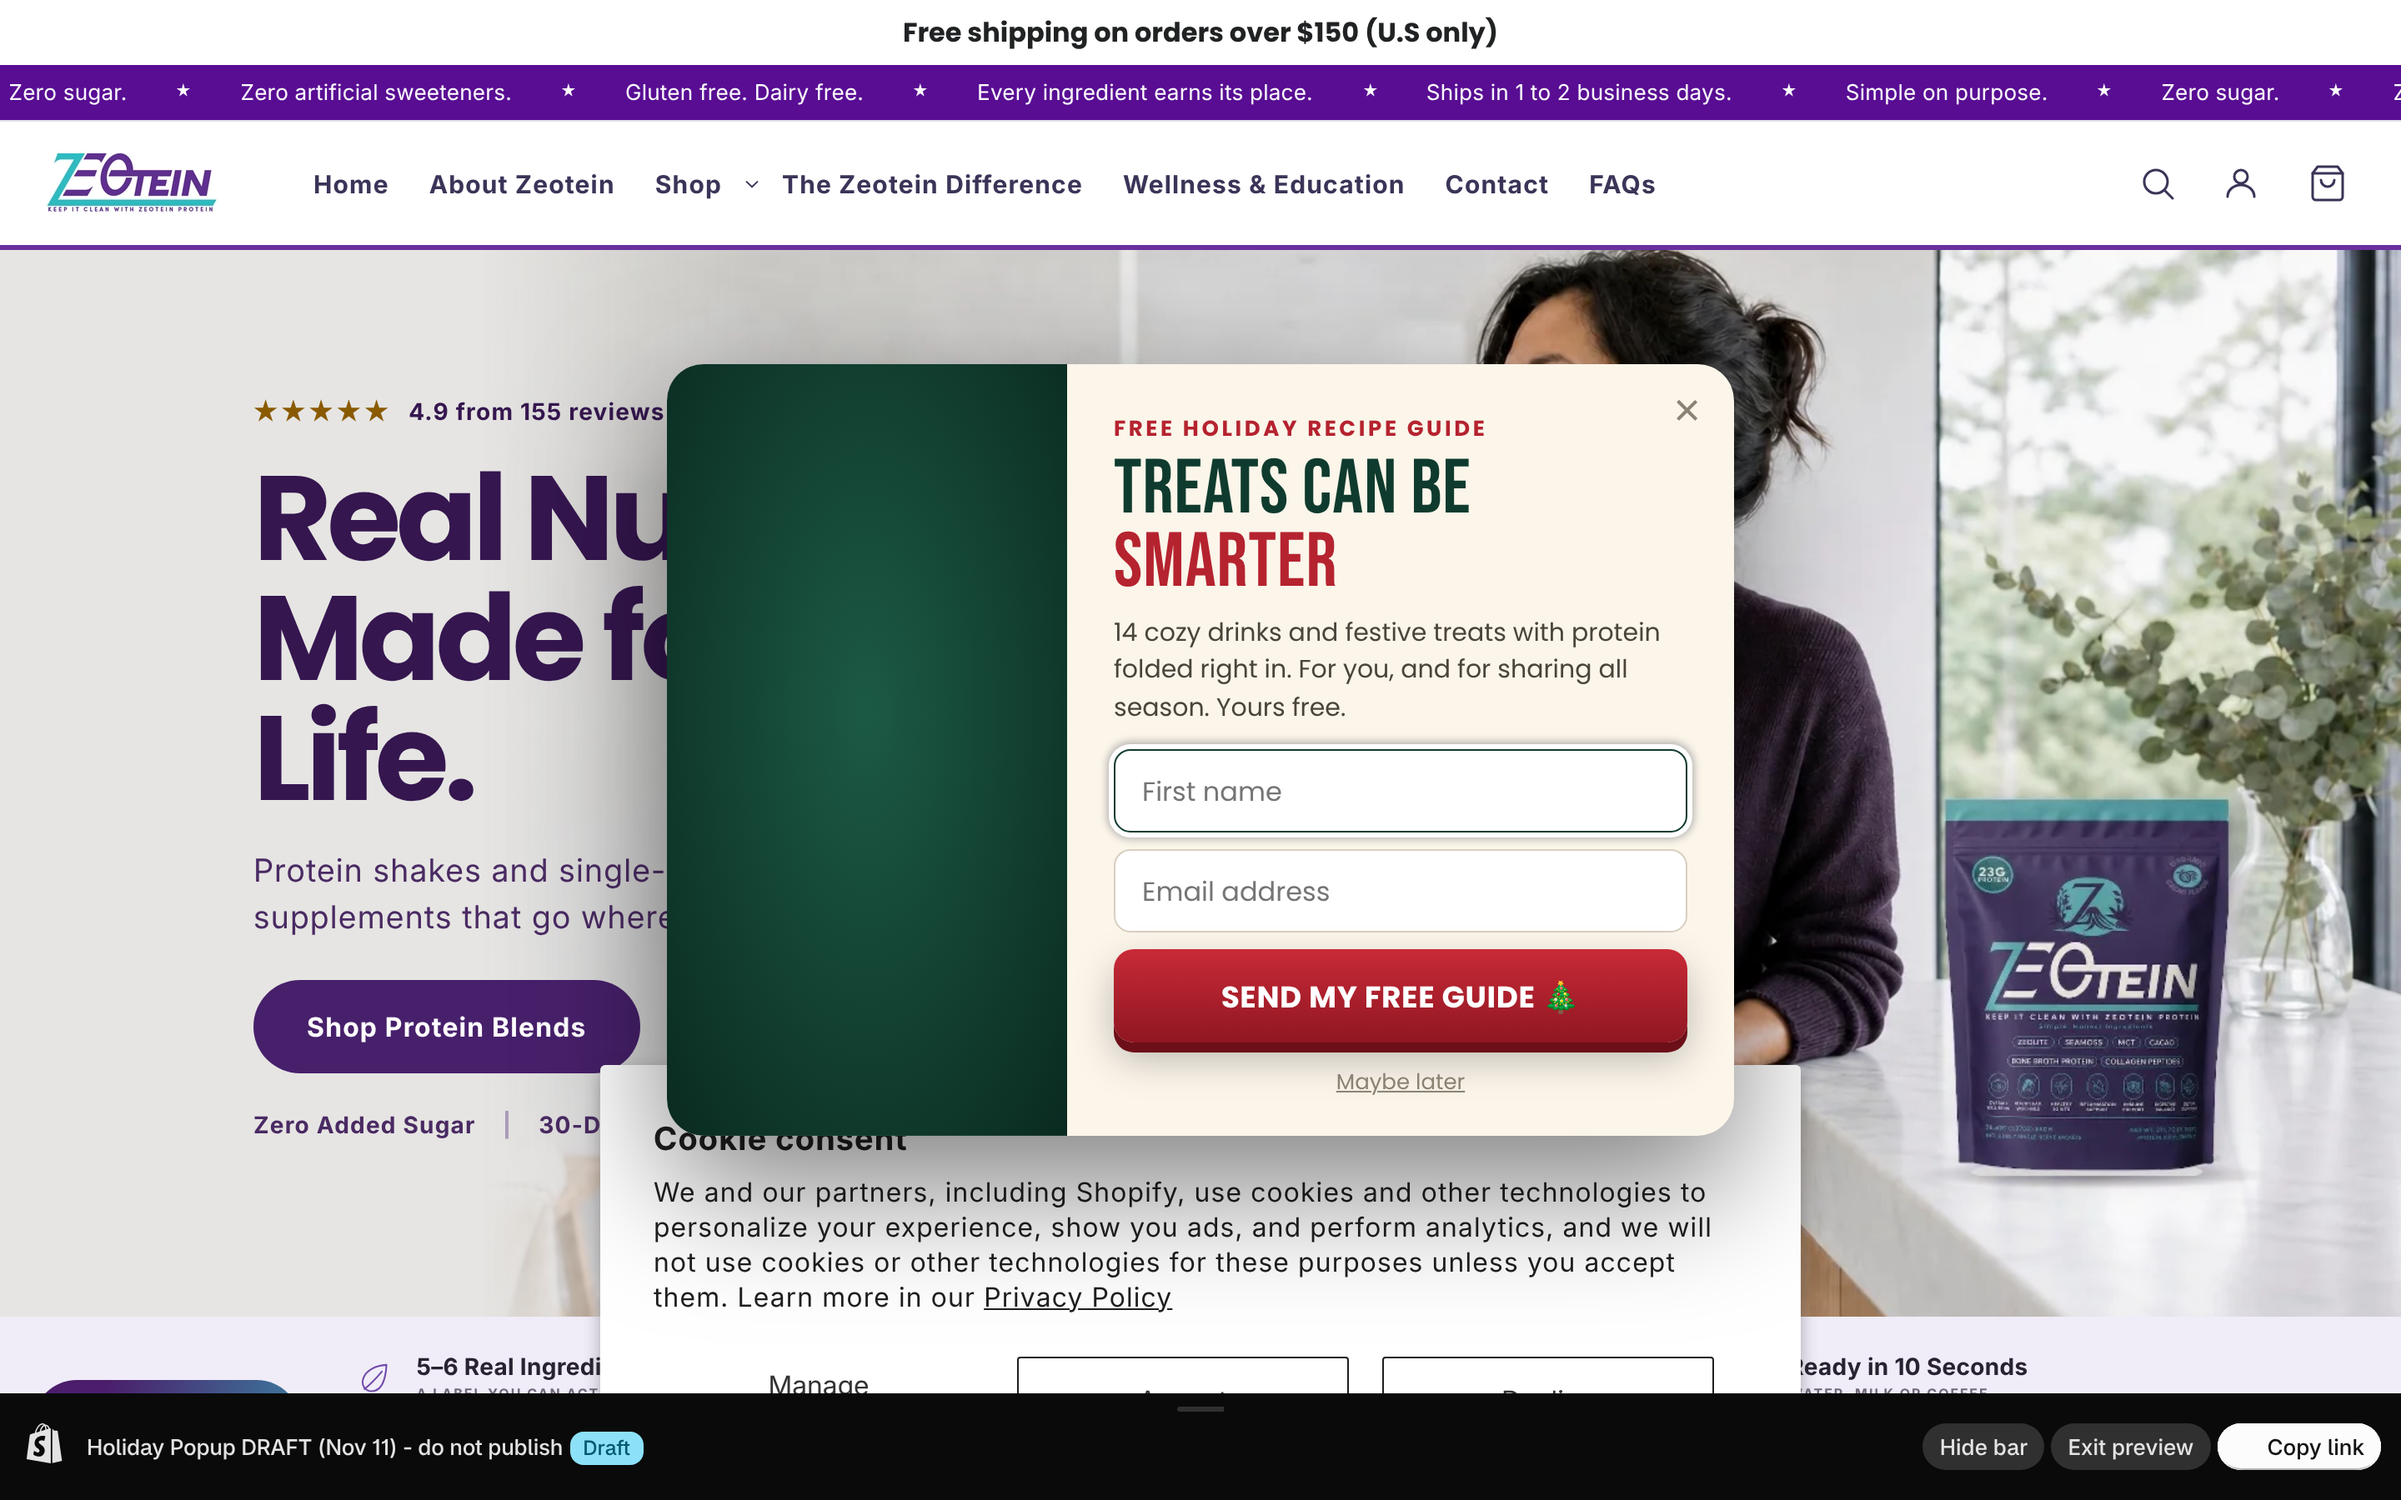
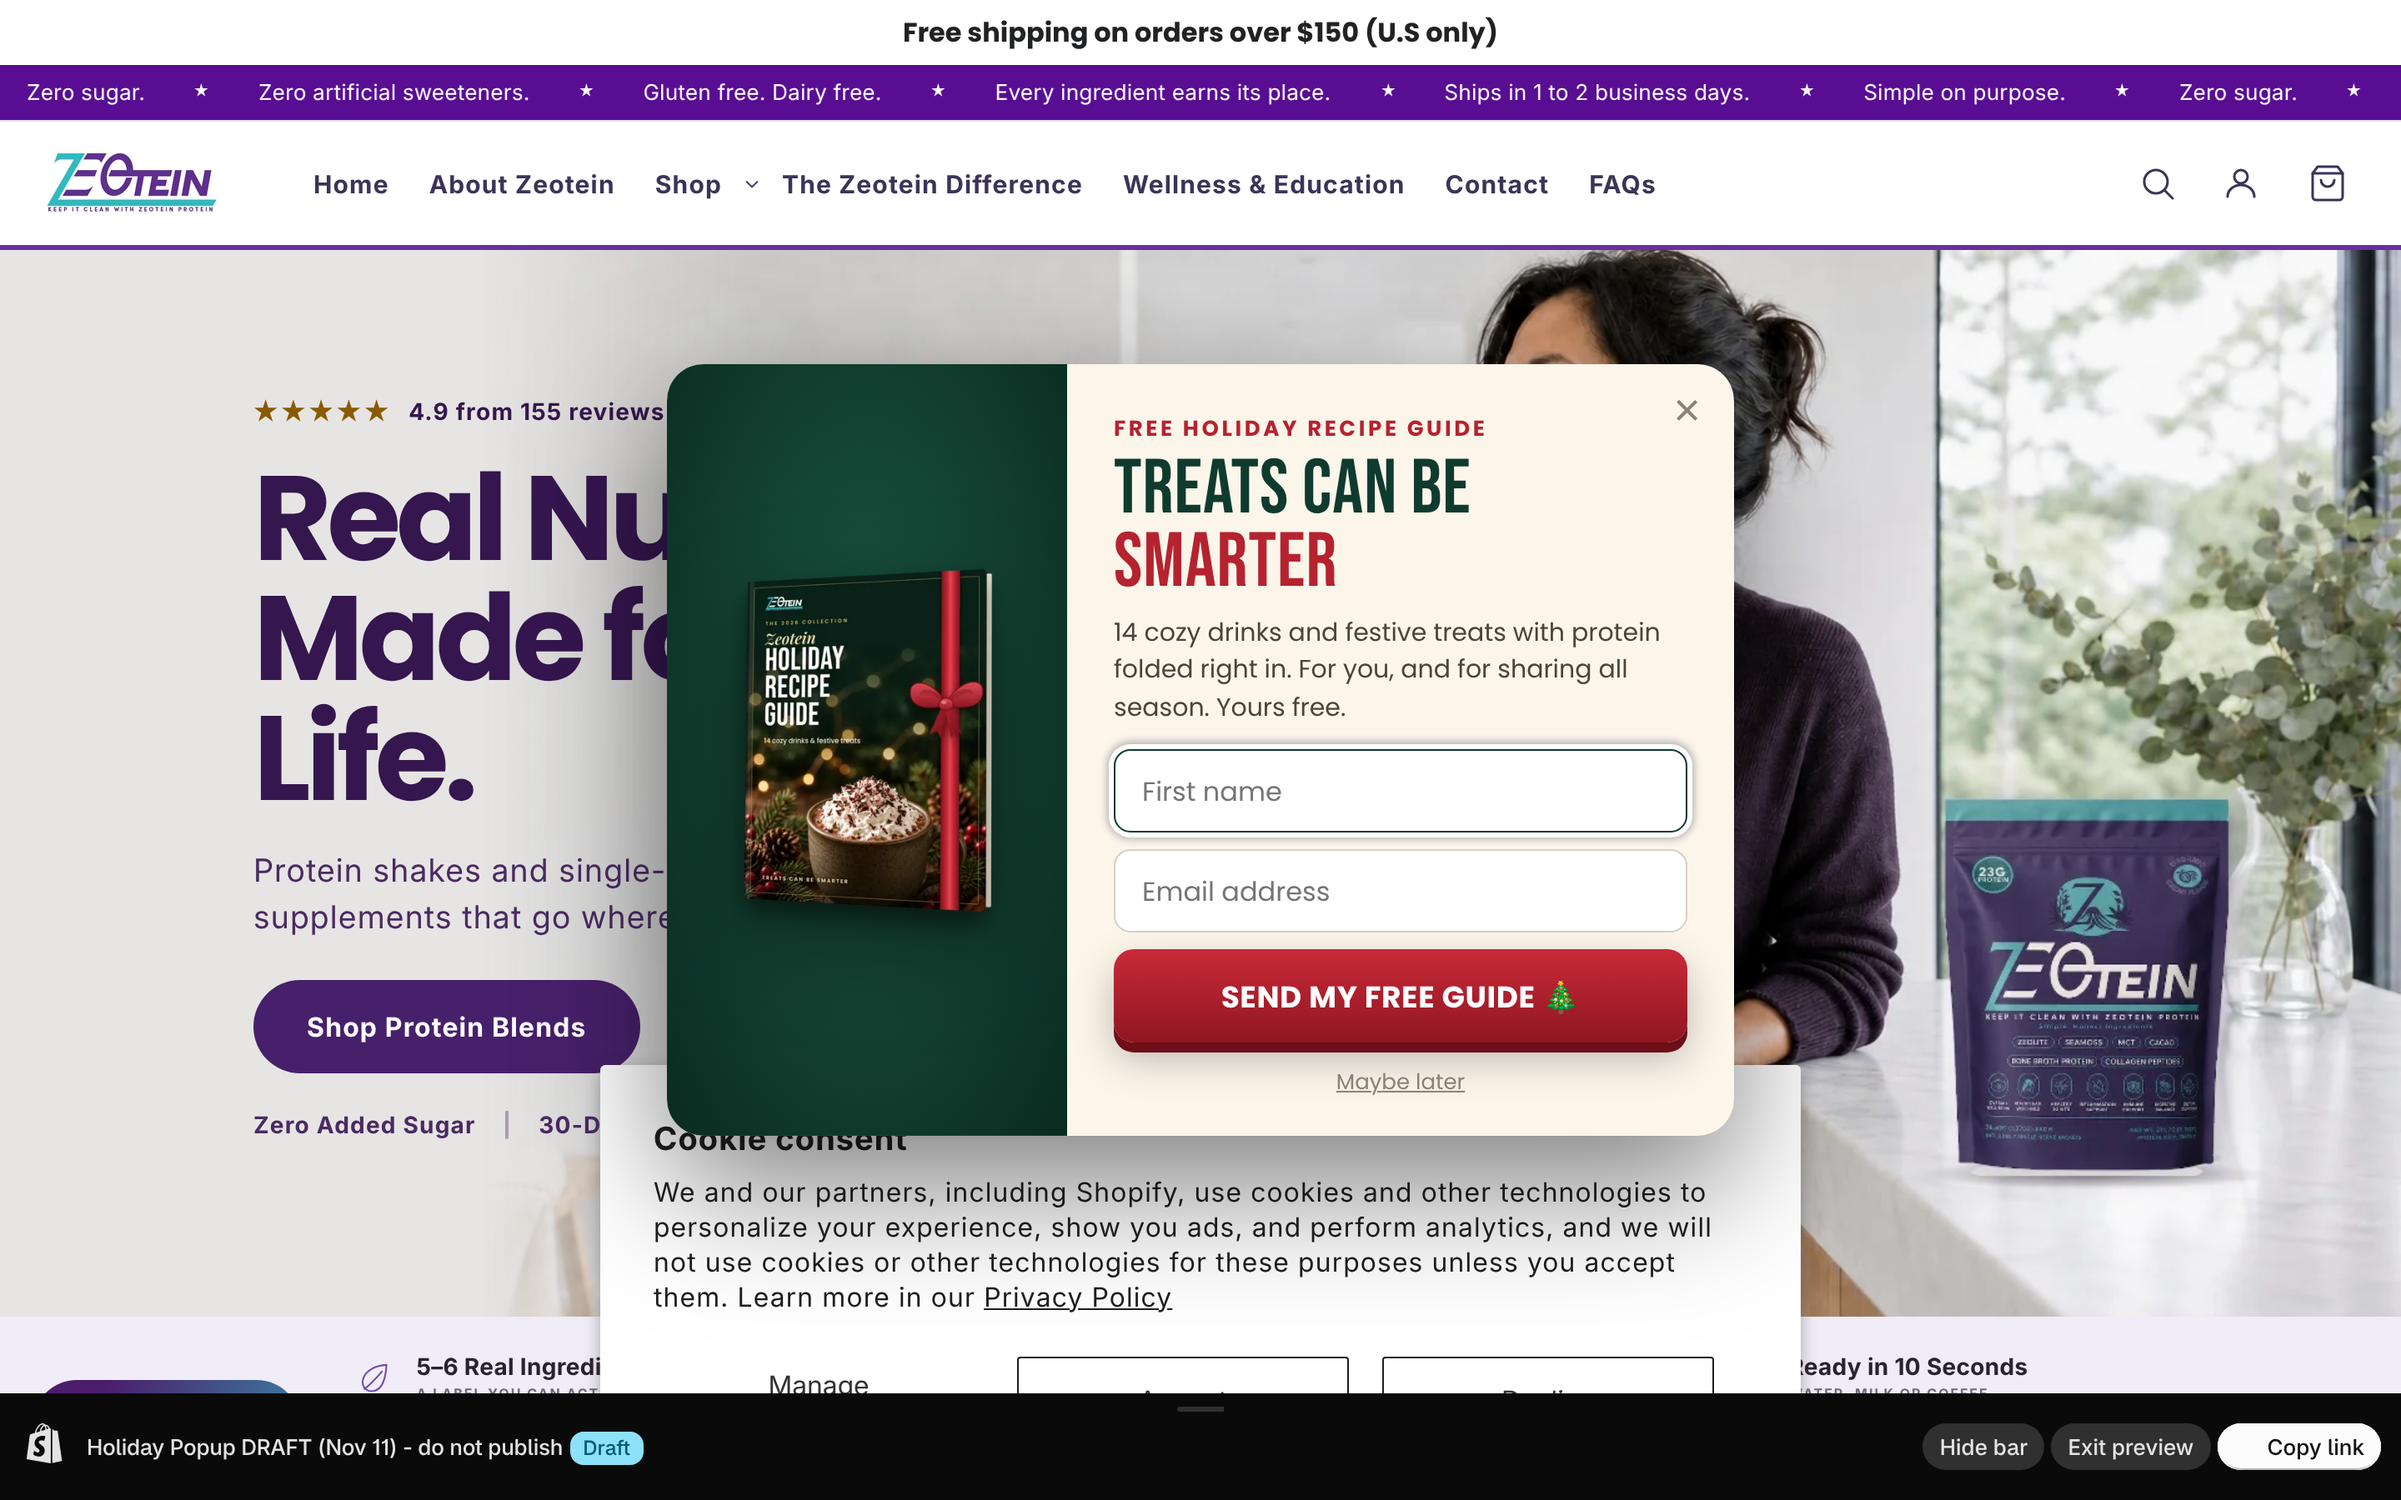
Holiday pop-up README and live preview check
Claude-Session: https://claude.ai/code/session_01D28ukcK97WsDjE3N9VCs7n

diff --git a/holiday-popup/qa/live_check.js b/holiday-popup/qa/live_check.js
@@ -1,0 +1,11 @@
+// Screenshot the pop-up on the unpublished draft theme (preview link).
+const {chromium,devices}=require('playwright');
+(async()=>{const b=await chromium.launch();
+for(const [n,o] of [['desktop',{viewport:{width:1440,height:900},deviceScaleFactor:2}],['mobile',devices['iPhone 13']]]){
+const c=await b.newContext(o);const p=await c.newPage();
+await p.goto('https://zeotein.com/?preview_theme_id=187982840021&zt_popup=1',{waitUntil:'domcontentloaded',timeout:60000});
+await p.waitForSelector('#zt-hp.is-open',{timeout:20000});await p.waitForTimeout(1500);
+await p.screenshot({path:`qa/screens/live-${n}-step1.png`});
+console.log(n, await p.evaluate(()=>{const i=document.querySelector('.zt-hp__cover');return {op:getComputedStyle(i).opacity,eager:i.loading,w:i.getBoundingClientRect().width}}));
+await c.close();}
+await b.close()})();

diff --git a/holiday-popup/README.md b/holiday-popup/README.md
@@ -1,0 +1,40 @@
+# Holiday Recipe Guide pop-up
+
+v3 design (Dana approved Nov 11, 2026). It's built on a Shopify draft theme and isn't live.
+
+| Piece | Where |
+|---|---|
+| Pop-up (HTML/CSS/JS, Liquid) | `snippet/zt-holiday-popup.liquid` → `snippets/zt-holiday-popup.liquid` on the draft theme |
+| Footer-group section that renders it | `sections/zt-holiday-popup.liquid` + entry in `sections/footer-group.json` (draft theme only) |
+| Cover image | `assets/zt-holiday-guide-cover.webp` |
+| GHL relay (keeps the API key off the browser) | `worker/worker.js` (Cloudflare Worker) |
+| QA | `qa/popup_check.js` (20 behavior checks), `qa/live_check.js`, `qa/screens/` |
+
+Draft theme: **Holiday Popup DRAFT (Nov 11) - do not publish** (id 187982840021), a copy of the live "Cacao LP updates 2026-11-05".
+Preview: https://zeotein.com/?preview_theme_id=187982840021&zt_popup=1 (`zt_popup=1` opens it right away and skips the triggers).
+
+## Behavior
+- **Desktop:** centered modal. It opens on **exit intent only**, and only after 8s on the page, so it can't fire early.
+- **Mobile:** bottom sheet. It opens after **25s on the page AND 40% scroll depth**, or on a fast scroll back up after reading 40%.
+- **Suppression:** it never shows again after a submit. "Maybe later" or close hides it for 7 days. It shows at most once per session. It's skipped for logged-in customers who accept marketing and for visitors arriving from our own email or SMS (`utm_source`/`utm_medium` containing email, sms, ghl, klaviyo). It's also skipped on cart, account, subscription portal and checkout pages.
+- **Step 1:** first name + email. The relay upserts the contact (source `holiday-popup`) and **adds** the tags `holiday-guide` and `acq-holiday-popup`.
+- **Step 2 (optional):** a US mobile number plus the exact TCPA line from the mockup. The relay sets the phone, sets SMS DND to inactive, and adds the tags `sms-opted-in` and `holiday-popup-sms`. It also writes these custom fields:
+  - SMS Consent Timestamp (`dHt8bKGRJDMonW9RxmIK`)
+  - SMS Consent Source = holiday-popup (`moRFFbcOuZUE4Fryigb5`)
+  - SMS Consent Text (`ROBEY26uJci7GEUJ23GQ`)
+  - SMS Consent Page URL (`8kiKSYbmUCWy1ClyClqO`)
+- **Skipping step 2** keeps the email lead.
+- **Tags are never sent on upsert.** GHL's upsert replaces all of a contact's tags, so tags are added in a separate call.
+
+## Go-live steps
+1. Deploy `worker/worker.js` to Cloudflare Workers with these settings:
+   - `GHL_TOKEN`: a GHL Private Integration token with the contacts read/write scopes.
+   - `GHL_LOCATION_ID=Kch9YmRfzpmQrAs5Bchz`
+   - `ALLOWED_ORIGINS=https://zeotein.com,https://www.zeotein.com`
+   - `CF_SMS_TS`, `CF_SMS_SOURCE`, `CF_SMS_TEXT`, `CF_SMS_PAGE`: the four custom field ids listed above.
+2. Paste the Worker URL into `zt_hp_endpoint` in the snippet. Until then the form shows "Something went wrong" and sends nothing.
+3. Fix the guide-email trigger (see the open issue below).
+4. Turn it on. Either copy the snippet, the section and the footer-group entry into the live theme, or publish this draft. Don't publish the draft if the live theme has changed since Nov 11.
+
+## Open issue: the guide email didn't fire
+The test contacts `zeotein+hgpopup1111@gmail.com` (tag added after the contact was created) and `zeotein+hgpopup1111b@gmail.com` (created with the tag) both got the `holiday-guide` tag, and neither received the guide email. The Nov 10 QA contact did. The workflow API isn't enabled for this location, so its trigger has to be checked in the GHL UI. The workflow needs a trigger of **Contact Tag added = holiday-guide**, with re-entry allowed and the workflow published.

diff --git a/README.md b/README.md
@@ -4,4 +4,5 @@ Zeotein web builds that live outside the Shopify admin.
 
 | Folder | What it is |
 |---|---|
+| [`holiday-popup/`](holiday-popup/) | Holiday Recipe Guide pop-up (Shopify snippet + GHL relay). See its README. |
 | [`google-site/`](google-site/) | The Google-only Zeotein website for GoHighLevel ("Zeotein Google Site"): eight paste-ready page blocks, the build script, and the compliance and render checks. Start with [`google-site/README.md`](google-site/README.md) or open `google-site/dist/install-kit.html`. |
